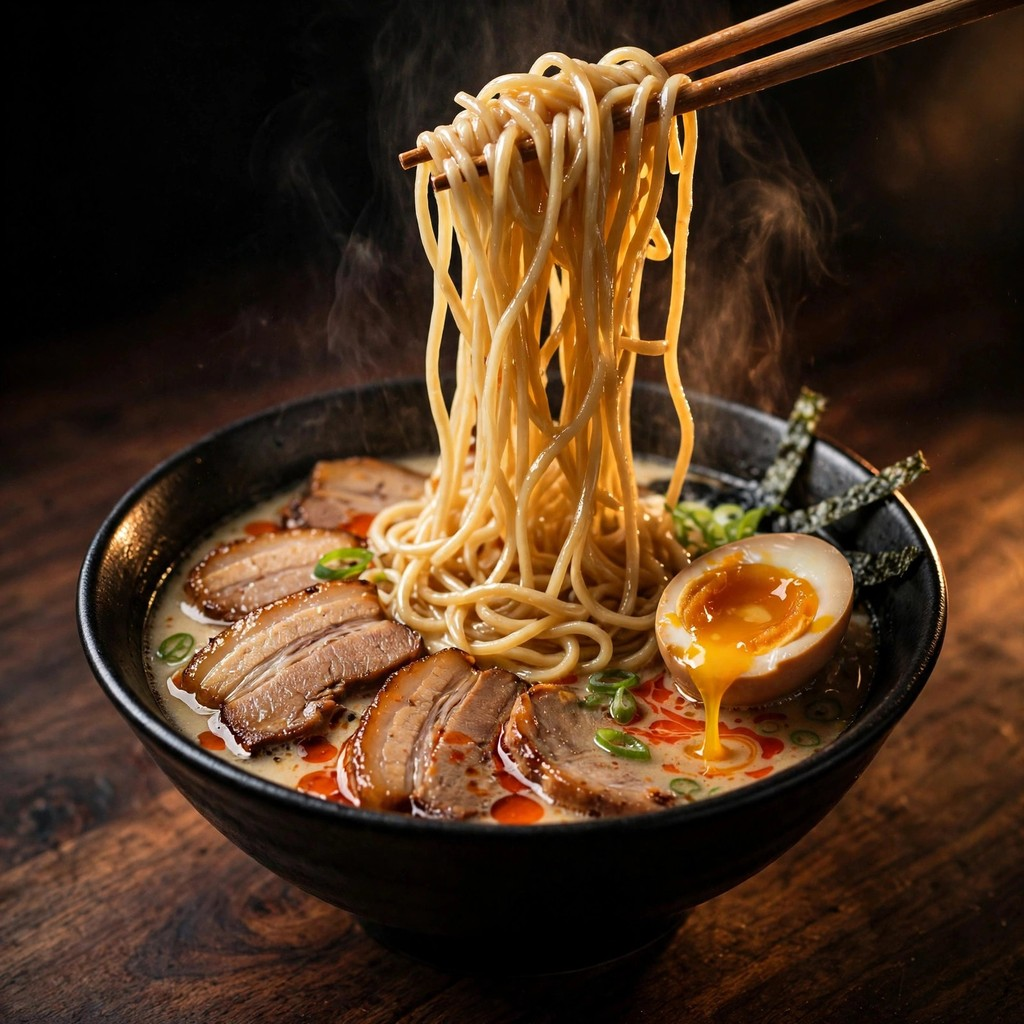
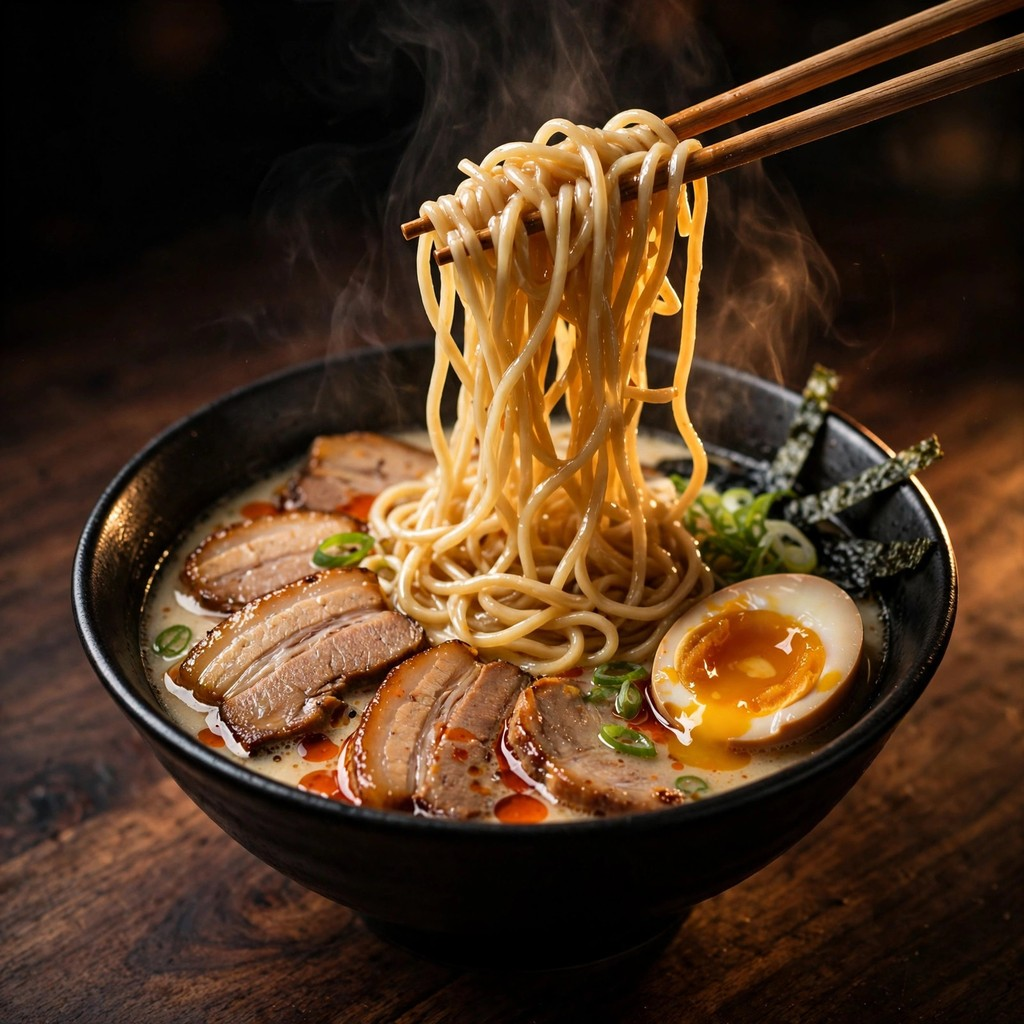
food-picture-01 v4: restore v1 image

diff --git a/main.ts b/main.ts
@@ -1,19 +1,10 @@
-// food-picture-01 entry, version 3 (Node 22, standard library only): the picture
-// is the entry.png beside this file, and the program copies it to
-// /output/entry.png.
+// food-picture-01 entry (Node 22, standard library only): the picture is the
+// entry.png beside this file, and the program copies it to /output/entry.png.
 //
-// Version 3 is a tonkotsu ramen noodle-lift hero shot in the formula the
-// leaderboard's top entries prove the judge rewards: a black bowl on a dark
-// walnut table, chopsticks lifting a TALL glossy noodle pull high above the
-// bowl, a halved ajitama egg with molten golden yolk DRIPPING in a thick
-// stream into the creamy broth, charred chashu, a red chili-oil swirl,
-// thin realistic steam, warm dramatic light with strong contrast. Version 1
-// (dark and moody) ranked #323; version 2 (bright natural window light)
-// fell to #1049, so this version goes back to dark and dramatic, with the
-// pull taller, the gloss stronger and the yolk actually dripping — the two
-// heroes the top titles all name. It is shot to look like a real food
-// photograph: true-to-life warm colours, sharp detail, no plastic or waxy
-// look, and it still reads clearly at 300 pixels across.
+// The picture is a steaming tonkotsu ramen noodle-lift hero shot: black bowl,
+// dark walnut wood, warm rim light, jammy egg and glossy noodles — the style
+// the judge's own criteria favour (hunger first, then fresh/real texture and
+// steam, then styling and light, then clean craft, then reading small).
 //
 // The gate takes a whole PNG or JPEG of at most 1 MiB and 1024 by 1024 pixels,
 // so this program checks the file before it copies it: the first bytes must
@@ -23,7 +14,7 @@
 // Outside the grader's container, MAKEFUN_OUTPUT_DIR stands in for /output:
 //   mkdir -p out && MAKEFUN_OUTPUT_DIR=out node main.ts
 
-import { copyFileSync, mkdirSync, readFileSync, statSync } from 'node:fs';
+import { copyFileSync, readFileSync, statSync } from 'node:fs';
 import { join } from 'node:path';
 
 const MAX_BYTES = 1_048_576;
@@ -42,20 +33,6 @@ if (!isJpeg && !isPng) {
 if (bytes.length > MAX_BYTES) {
   throw new Error(`entry.png is ${bytes.length} bytes, over the 1 MiB cap`);
 }
-// A whole JPEG runs through to its end marker (FF D9): a truncated file
-// would still pass the magic-byte check above, so check the tail too.
-if (isJpeg && (bytes[bytes.length - 2] !== 0xff || bytes[bytes.length - 1] !== 0xd9)) {
-  throw new Error('entry.png: JPEG has no end marker (truncated file)');
-}
-// A whole PNG ends with its IEND chunk (length 0, 'IEND', CRC): same idea.
-if (
-  isPng &&
-  (bytes.length < 12 ||
-    bytes.readUInt32BE(bytes.length - 12) !== 0 ||
-    bytes.toString('ascii', bytes.length - 8, bytes.length - 4) !== 'IEND')
-) {
-  throw new Error('entry.png: PNG has no IEND chunk (truncated file)');
-}
 
 const MAX_PIXELS = 1024;
 
@@ -68,7 +45,7 @@ function dimensions() {
   while (offset + 9 < bytes.length) {
     if (bytes[offset] !== 0xff) throw new Error('entry.png: bad JPEG marker');
     const marker = bytes[offset + 1];
-    if (marker === 0xd8 || marker === 0xd9 || (marker >= 0xd0 && marker <= 0xD7)) {
+    if (marker === 0xd8 || marker === 0xd9 || (marker >= 0xd0 && marker <= 0xd7)) {
       offset += 2;
       continue;
     }
@@ -85,15 +62,9 @@ const { width, height } = dimensions();
 if (width > MAX_PIXELS || height > MAX_PIXELS) {
   throw new Error(`entry.png is ${width}x${height}, over the 1024x1024 cap`);
 }
-// Version 3's composition is built square, so the judge's 300px read shows
-// the same framing as the full image: refuse a non-square file outright.
-if (width !== height) {
-  throw new Error(`entry.png is ${width}x${height}, not square`);
-}
 
 const outDir = process.env.MAKEFUN_OUTPUT_DIR ?? '/output';
 const outPath = join(outDir, 'entry.png');
-mkdirSync(outDir, { recursive: true });
 copyFileSync(source, outPath);
 const copied = statSync(outPath).size;
 if (copied !== bytes.length) {

diff --git a/README.md b/README.md
@@ -1,36 +1,23 @@
-# Tonkotsu Ramen — Tall Glossy Noodle Pull, Dripping Molten Yolk
+# Steaming Tonkotsu Ramen — Noodle Lift
 
 Entry for make.fun `food-picture-01`: make the best-looking food picture.
-Version 3 — a correction, not a repeat: v1 (dark, moody) ranked #323, v2
-(bright natural window light) fell to #1049, so v3 goes back to dark and
-dramatic, in the formula the leaderboard's top 10 all prove the judge
-rewards: a tall glossy noodle pull as the hero, a dripping molten egg
-yolk, a dark table, steam.
 
 ## The picture
 
-A bowl of tonkotsu ramen in a black ceramic bowl on dark walnut wood
-against a near-black background, shot to look like a real food photograph:
-chopsticks lifting a TALL glossy noodle pull high above the bowl, long
-distinct strands glistening with creamy broth and catching warm light; a
-halved ajitama egg with molten golden yolk DRIPPING in a thick glossy
-stream down into the broth; charred chashu pork fanned on the left, a red
-chili-oil swirl, scallions and nori; thin realistic wisps of steam. Warm
-dramatic directional light, deep shadows, strong contrast, sharp detail,
-no plastic or waxy look, no artefacts. Shot to the judge's criteria in
-order — hunger first (the tall pull, the dripping yolk, the gloss), then
-fresh/real texture and steam, then styling and light (dark moody table,
-the bowl filling the frame), then clean craft, then reading small (bowl,
-noodles and yolk all clear at 300 px across).
+A steaming bowl of tonkotsu ramen in a black ceramic bowl on dark walnut
+wood: chopsticks lifting a tangle of glossy noodles, steam catching warm
+golden light, a jammy soft-boiled egg, chashu pork, green onions and nori.
+Shot to the judge's criteria in order — hunger first (steam, gloss, runny
+yolk), then fresh/real texture, then styling and light (dark moody
+background, warm rim light, the bowl filling the frame), then clean craft,
+then reading small (the dish is clear at 300 px across).
 
 ## The program
 
 `main.ts` (Node 22, standard library only) copies `entry.png` to
 `/output/entry.png` byte for byte, after checking it is a whole JPEG or PNG
-by its magic bytes, its end marker (JPEG EOI / PNG IEND), that it fits the
-1 MiB cap, and that it is square (the v3 composition is built square, so
-the judge's 300 px read shows the same framing). The copy is deterministic:
-two runs write the same bytes.
+by its magic bytes and fits the 1 MiB cap. The copy is deterministic: two
+runs write the same bytes.
 
 Run it locally:
 
@@ -41,5 +28,5 @@ mkdir -p out && MAKEFUN_OUTPUT_DIR=out node main.ts
 ## Files
 
 - `main.ts` — the entrypoint
-- `entry.png` — the picture (JPEG bytes, 1024×1024, 216,229 bytes)
+- `entry.png` — the picture (JPEG bytes, 1024×1024, 210,935 bytes)
 - `LICENSE` — MIT
